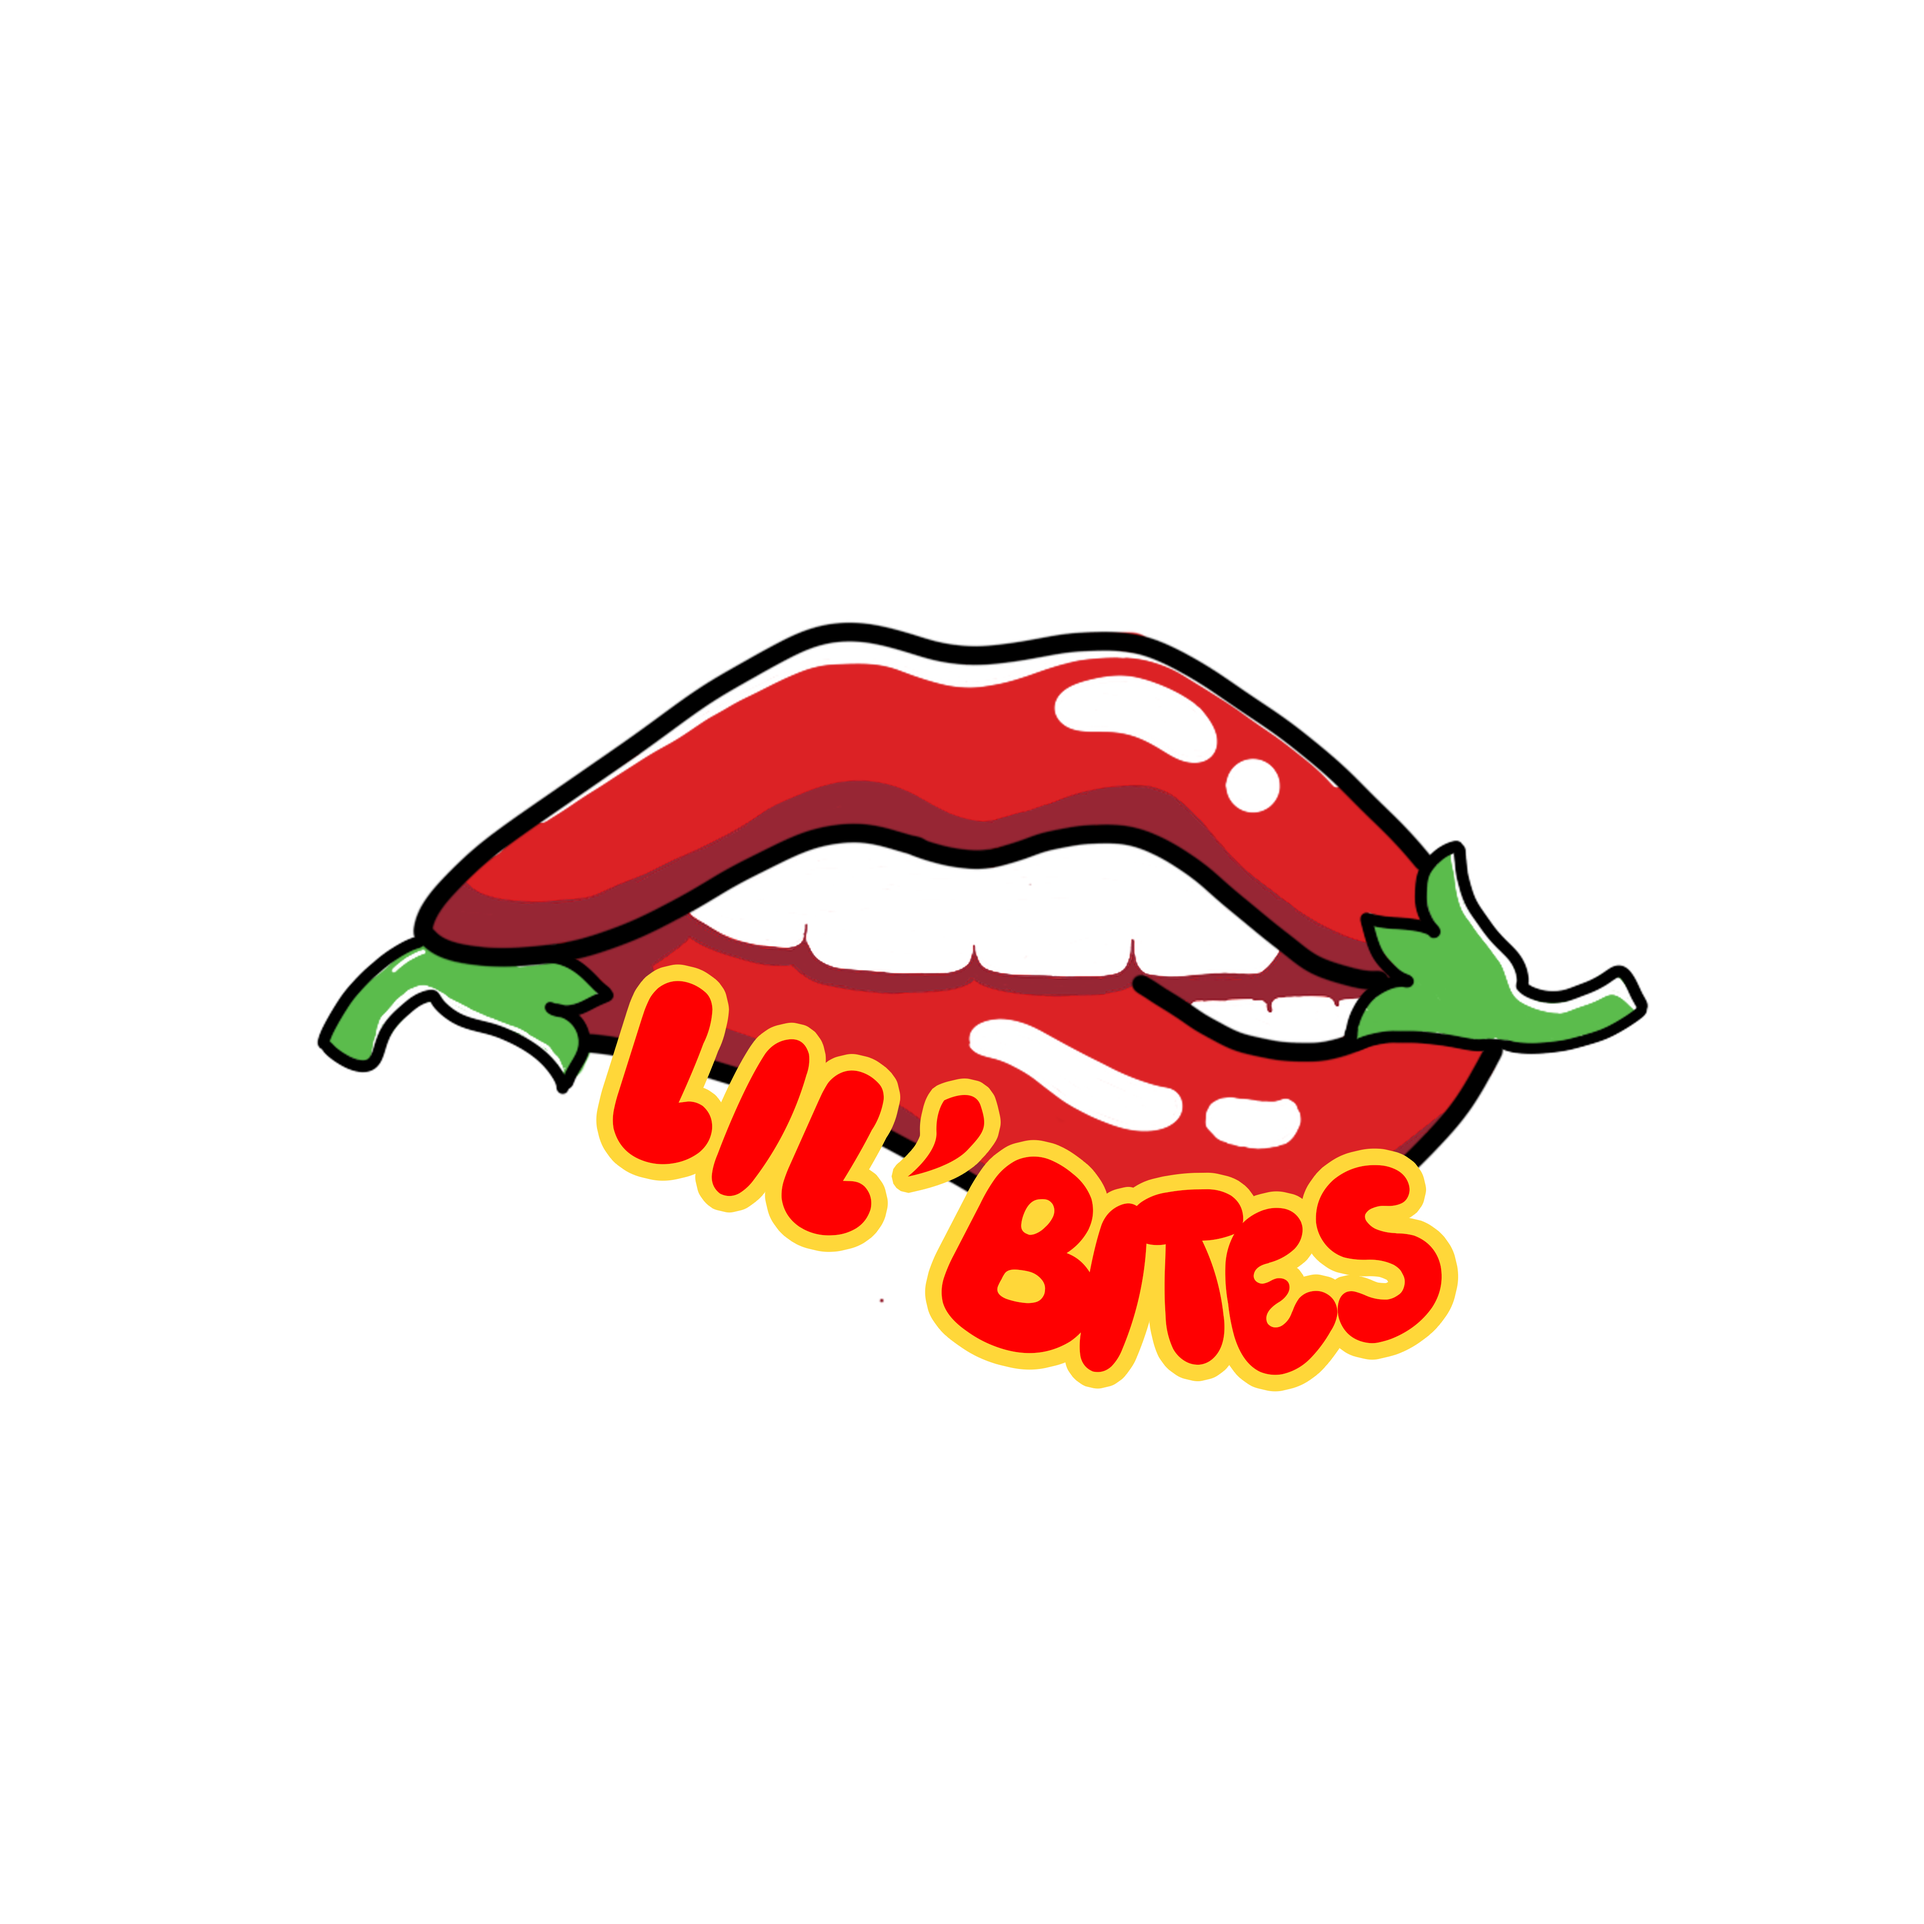
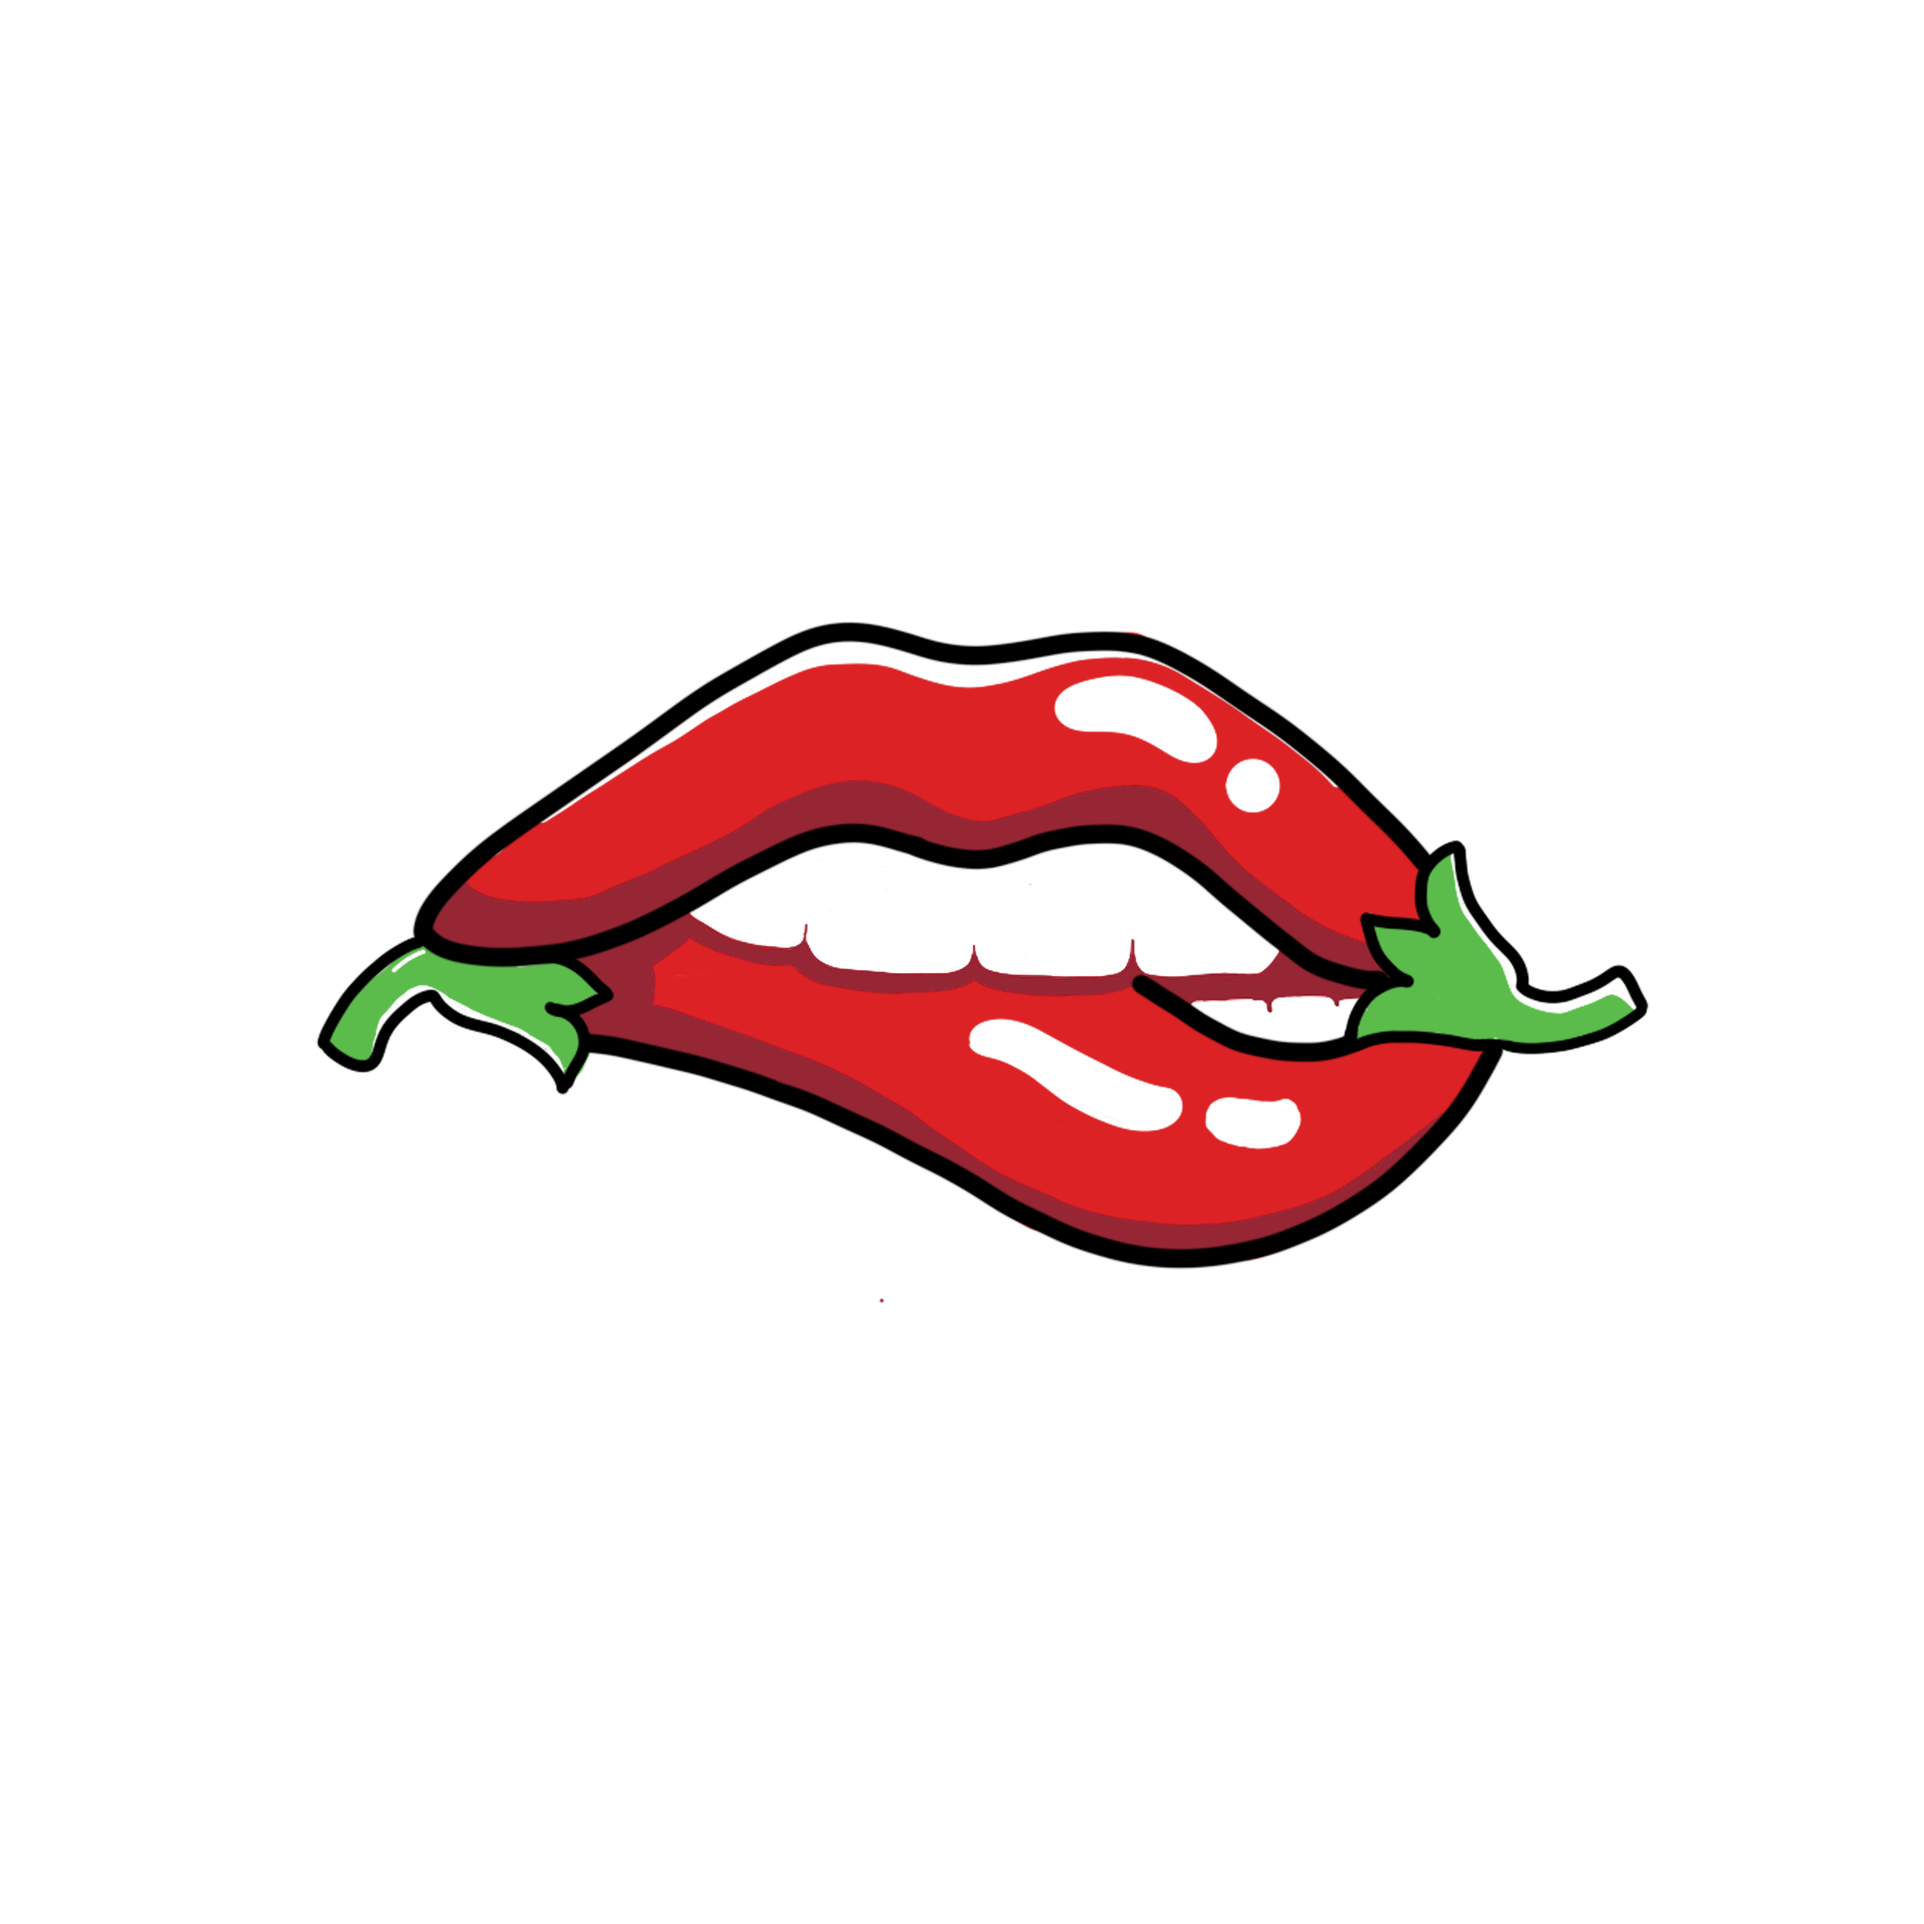
smallfixdesign

Changed region(s): [[0.3113, 0.498, 0.7782, 0.7471]]

diff --git a/src/i18n.ts b/src/i18n.ts
@@ -226,7 +226,7 @@ export const translations = {
           stack: ['Dashboard', 'Instagram', 'Till sync']
         },
         {
-          name: 'TYT',
+          name: 'Dylan',
           kind: 'Personal brand, worldwide',
           result: '10×',
           metric: 'More content',
@@ -254,7 +254,7 @@ export const translations = {
         },
         {
           name: 'Skyrol',
-          kind: 'Brand, remote',
+          kind: 'Travel solution, remote',
           result: '+48%',
           metric: 'Conversion lift',
           quote: 'We stopped losing leads in the gaps between tools.',
@@ -278,15 +278,6 @@ export const translations = {
           quote: 'The inbox no longer runs our day.',
           desc: 'Supplier triage, RFQ automation, deadline tracking. Inbox to pipeline in one click.',
           stack: ['Pipeline', 'Email', 'Docs']
-        },
-        {
-          name: "Lil' Bites",
-          kind: 'Food brand, launch 2026',
-          result: '0→1',
-          metric: 'From zero to live',
-          quote: 'We showed up with an idea. We left with a running business.',
-          desc: 'Brand, packaging, site, ads, order flow. Ready to ship on day one.',
-          stack: ['Brand', 'Shopify', 'Ads']
         }
       ]
     },
@@ -576,7 +567,7 @@ export const translations = {
           stack: ['Dashboard', 'Instagram', 'Caisse']
         },
         {
-          name: 'TYT',
+          name: 'Dylan',
           kind: 'Marque perso, international',
           result: '10×',
           metric: 'Plus de contenu',
@@ -604,7 +595,7 @@ export const translations = {
         },
         {
           name: 'Skyrol',
-          kind: 'Marque, à distance',
+          kind: 'Solution voyage, à distance',
           result: '+48 %',
           metric: 'Conversions',
           quote: 'On ne perd plus de pistes dans les trous entre les outils.',
@@ -628,15 +619,6 @@ export const translations = {
           quote: 'La boîte mail ne dirige plus la journée.',
           desc: 'Tri fournisseurs, RFQ automatisés, suivi des deadlines. Mail vers pipeline en un clic.',
           stack: ['Pipeline', 'Email', 'Docs']
-        },
-        {
-          name: "Lil' Bites",
-          kind: 'Marque food, lancement 2026',
-          result: '0→1',
-          metric: 'De zéro à lancée',
-          quote: 'On est arrivés avec une idée. On est repartis avec une boîte qui tourne.',
-          desc: 'Marque, packaging, site, pubs, prise de commande. Prêt à expédier au jour 1.',
-          stack: ['Marque', 'Shopify', 'Pubs']
         }
       ]
     },

diff --git a/src/components/Marquee.tsx b/src/components/Marquee.tsx
@@ -2,17 +2,16 @@ import { motion } from 'framer-motion'
 import { InfiniteSlider } from '@/components/ui/infinite-slider'
 import { staggerItem, staggerParent, viewportOnce } from './fx/motion'
 
-type Partner = { name: string; kind: string; logo?: string }
+type Partner = { name: string; kind: string; logo?: string; logoScale?: number }
 
 const partners: Partner[] = [
   { name: 'My Cocotte', kind: 'Restaurant', logo: '/partners/MYCOCOTTE.png' },
   { name: 'Inka Spa Bali', kind: 'Wellness', logo: '/partners/INKA.png' },
-  { name: 'Skyrol', kind: 'Brand', logo: '/partners/SKYROL.png' },
+  { name: 'Skyrol', kind: 'Travel solution', logo: '/partners/SKYROL.png' },
   { name: 'Temple Spa Bali', kind: 'Spa', logo: '/partners/TEMPLE.png' },
   { name: 'Natura Organics', kind: 'Organic brand', logo: '/partners/NATURA.png' },
   { name: "In'Sens Sourcing", kind: 'Sourcing', logo: '/partners/INSENS.png' },
-  { name: 'TYT', kind: 'Personal brand', logo: '/partners/TYT.png' },
-  { name: "Lil' Bites", kind: 'Food brand', logo: '/partners/LILBITES.png' }
+  { name: 'Dylan', kind: 'Personal brand', logo: '/partners/TYT.png', logoScale: 1.6 }
 ]
 
 export default function Marquee() {
@@ -49,6 +48,7 @@ export default function Marquee() {
                   alt=""
                   aria-hidden
                   loading="lazy"
+                  style={p.logoScale ? { transform: `scale(${p.logoScale})`, transformOrigin: 'center' } : undefined}
                   className="h-9 md:h-11 w-auto object-contain brightness-0 opacity-75 dark:invert dark:opacity-85 shrink-0"
                 />
               )}
